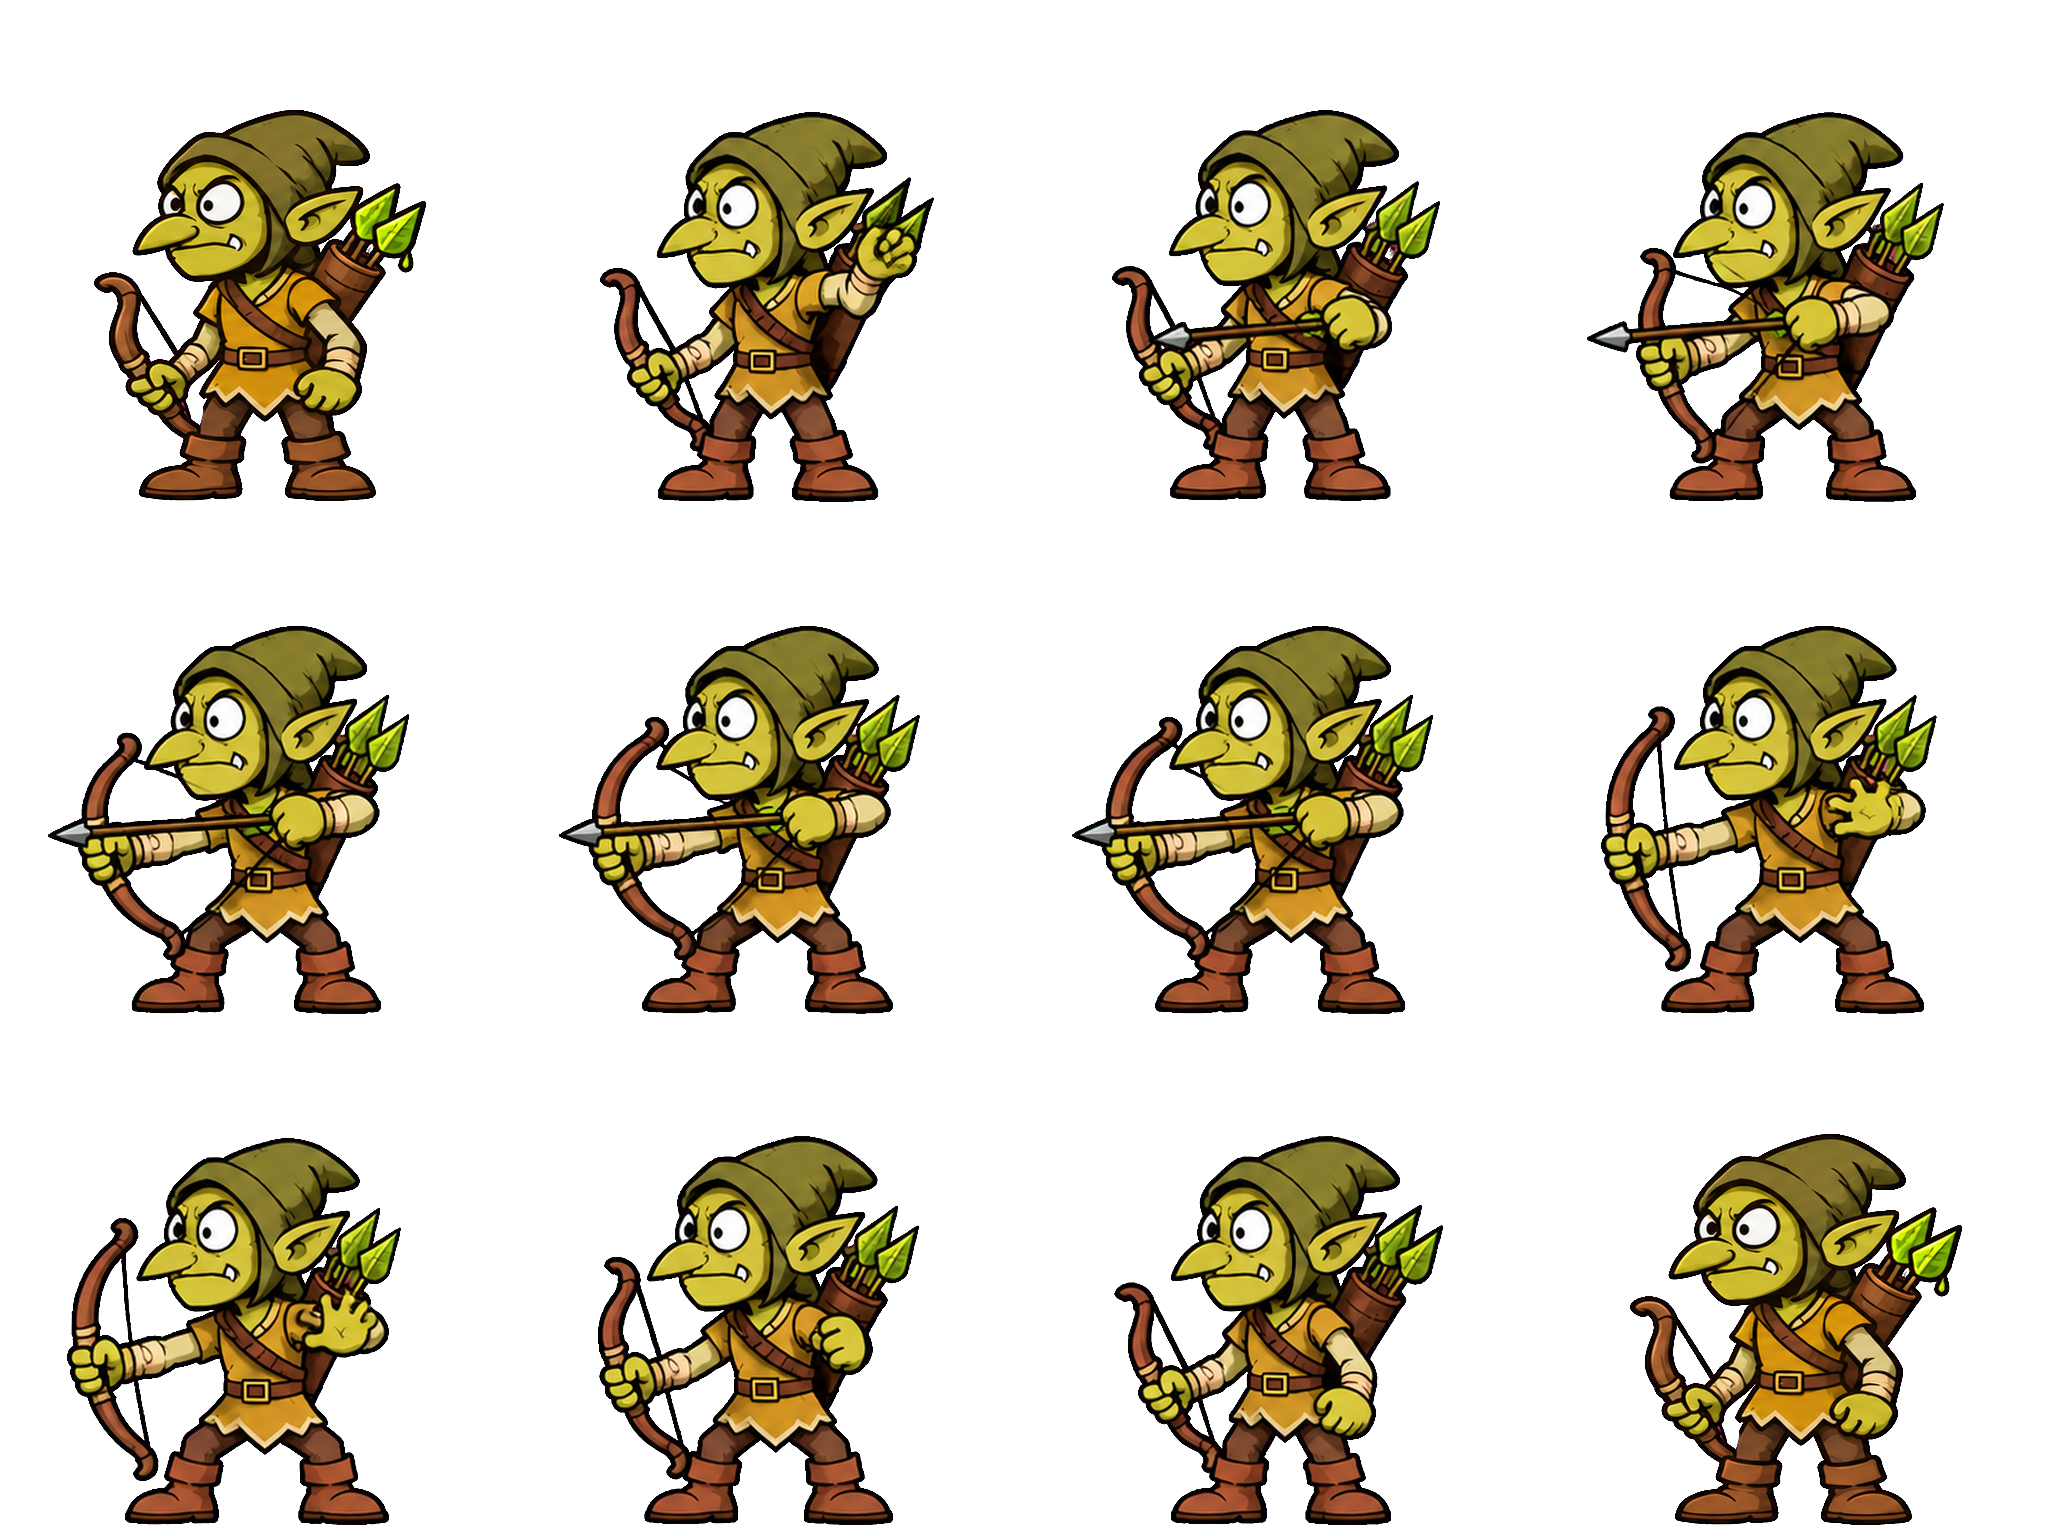
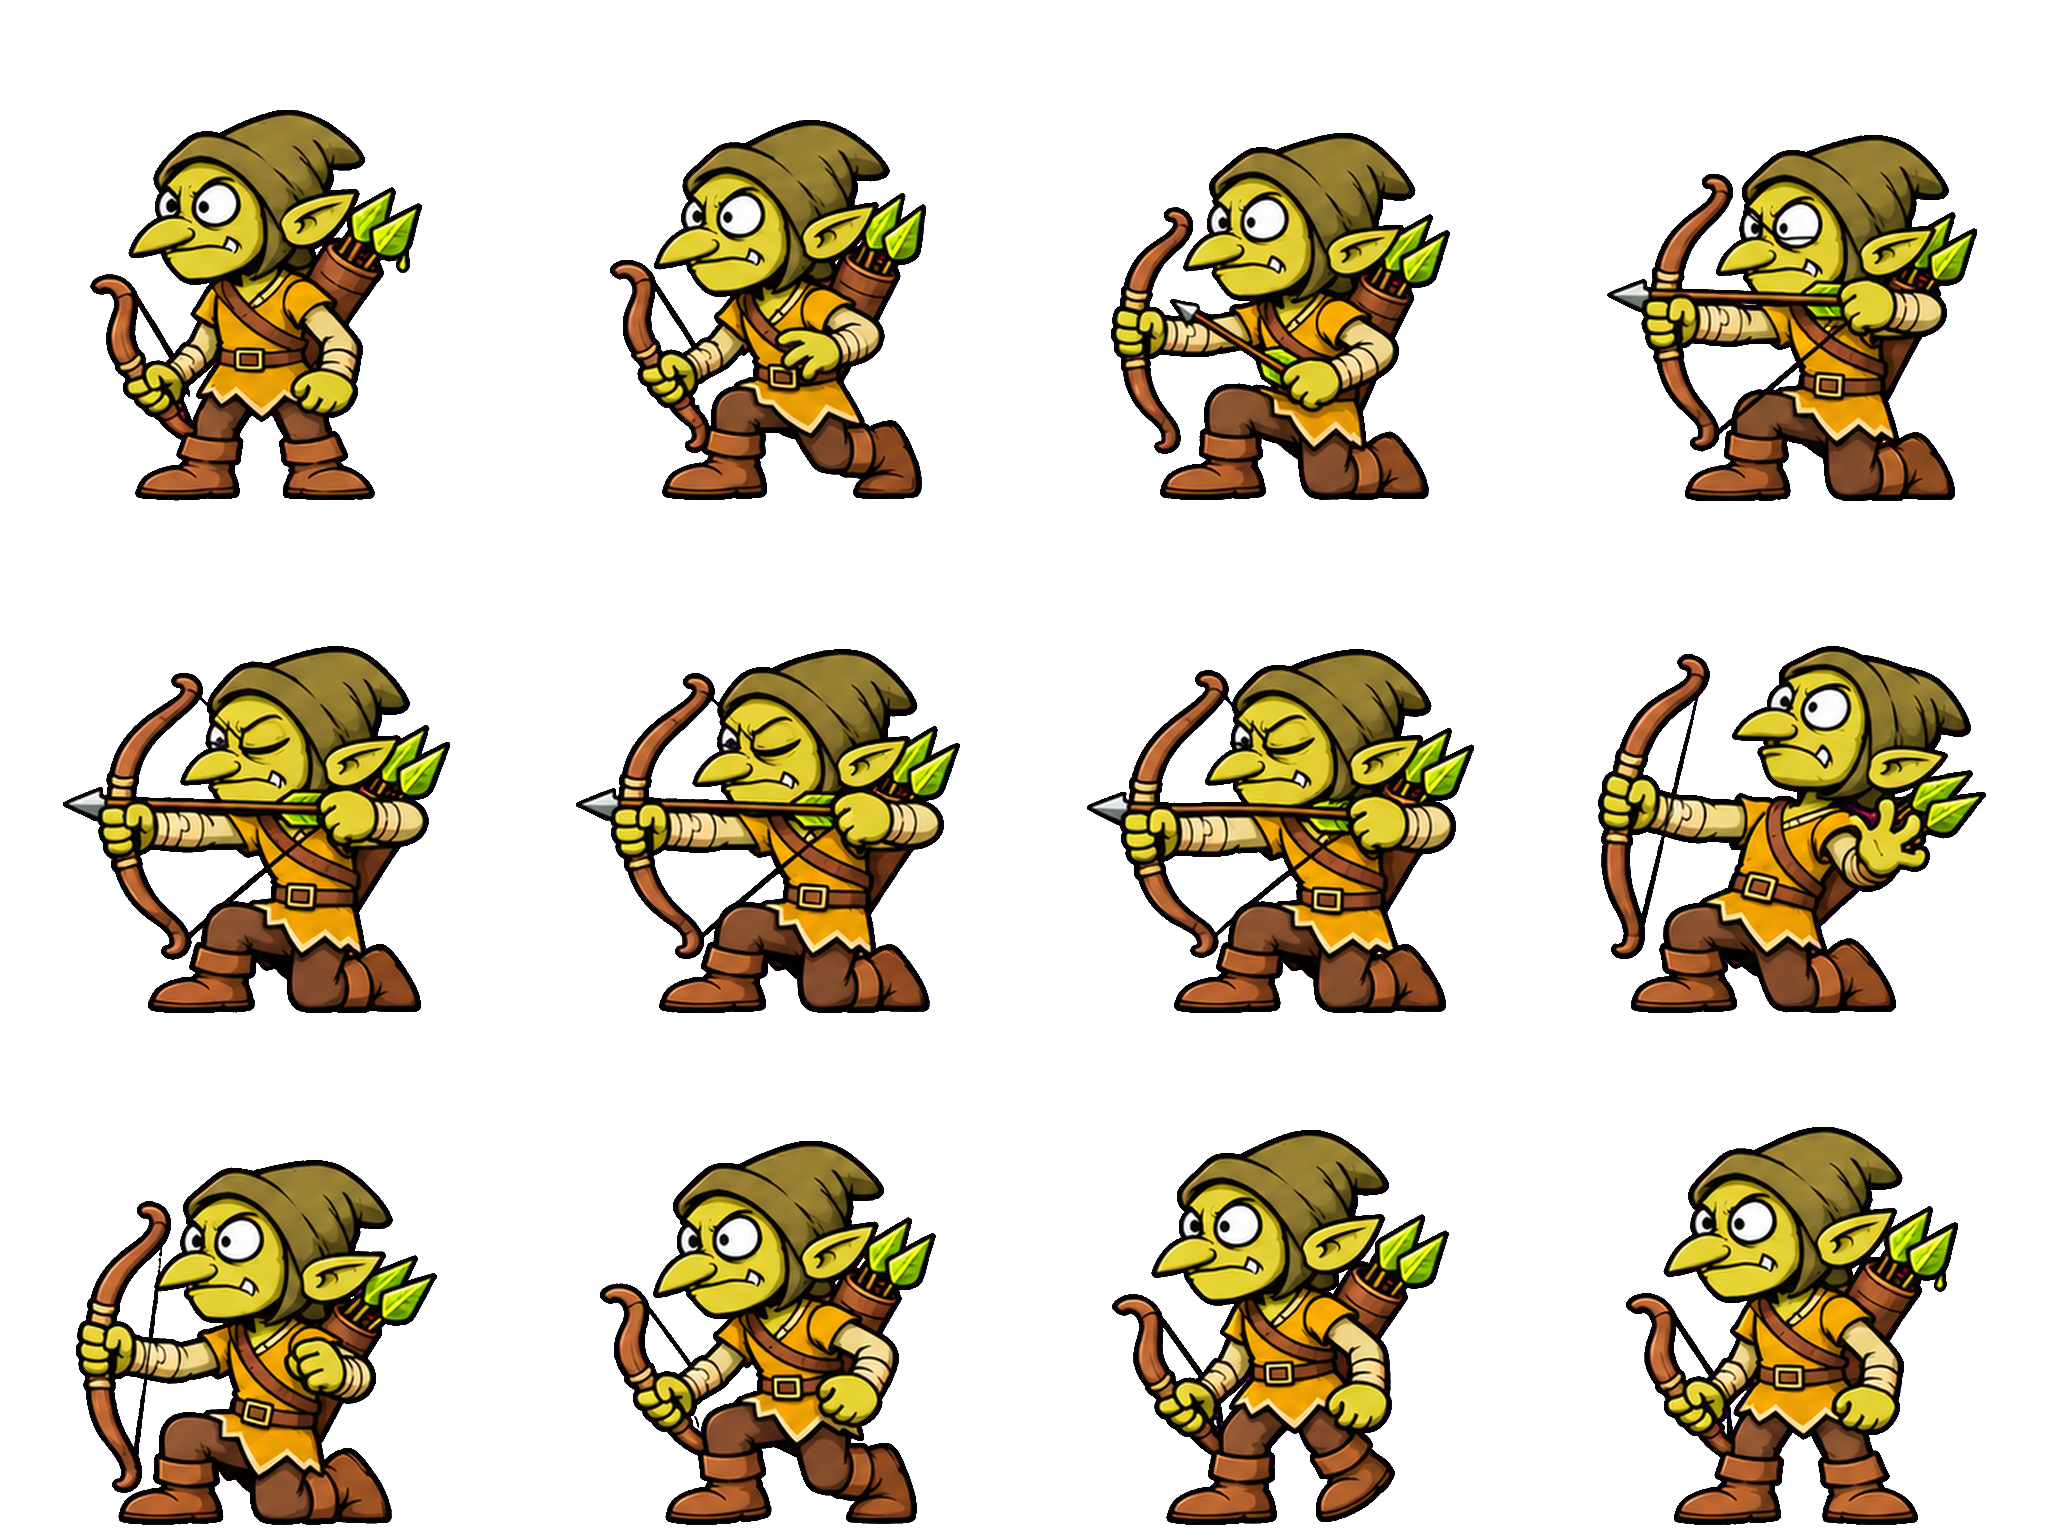
art: distinguish goblin archer kneeling power shot

diff --git a/docs/ideas/sprites/monsters2/assemble.py b/docs/ideas/sprites/monsters2/assemble.py
@@ -1,0 +1,47 @@
+"""Lay out generated RGB poses; only key_out.py creates final alpha."""
+import argparse, json, subprocess
+from pathlib import Path
+import numpy as np
+from PIL import Image
+from scipy import ndimage
+
+p=argparse.ArgumentParser()
+p.add_argument('monster'); p.add_argument('clip'); p.add_argument('source')
+p.add_argument('--frames',type=int,required=True); p.add_argument('--fps',type=int,required=True)
+p.add_argument('--source-rows',type=int,default=3); p.add_argument('--offset',type=int,default=0)
+a=p.parse_args()
+root=Path('docs/ideas/sprites/monsters2'); out=root/a.monster; out.mkdir(exist_ok=True)
+ref=root/'ref'/f'{a.monster}_idle_old.png'
+im=Image.open(a.source).convert('RGB'); ar=np.array(im)
+def mask(rgb):
+    d=rgb.astype(int)
+    return ~((d[:,:,0]>180)&(d[:,:,2]>180)&(d[:,:,1]<100))
+poses=[]; boxes=[]
+for i in range(a.offset,a.offset+a.frames):
+    x=i%4; y=i//4
+    f=im.crop((round(x*im.width/4),round(y*im.height/a.source_rows),round((x+1)*im.width/4),round((y+1)*im.height/a.source_rows)))
+    m=mask(np.array(f)); lab,n=ndimage.label(m)
+    sizes=np.bincount(lab.ravel()); valid=np.flatnonzero(sizes>=20); valid=valid[valid!=0]
+    m=np.isin(lab,valid); yy,xx=np.where(m)
+    box=(int(xx.min()),int(yy.min()),int(xx.max()+1),int(yy.max()+1)); boxes.append(box); poses.append(f.crop(box))
+rr=np.array(Image.open(ref).convert('RGBA'))[:512,:512,3]>=128
+yy=np.where(rr)[0]; height=int(yy.max()-yy.min()+1)
+scale=height/poses[0].height
+# Uniform scale within a clip: preserve actual crouches, stretches and falls.
+sheet=Image.new('RGB',(2048,512*((a.frames+3)//4)),(255,0,255))
+for i,f in enumerate(poses):
+    w,h=round(f.width*scale),round(f.height*scale)
+    if w>500 or h>494: raise RuntimeError(f'pose {i} needs room: {w}x{h}; regenerate')
+    f=f.resize((w,h),Image.Resampling.LANCZOS)
+    # Normalize only flat background, leaving drawn pixels intact.
+    rgb=np.array(f); bg=~mask(rgb); rgb[bg]=(255,0,255); f=Image.fromarray(rgb)
+    sheet.paste(f,((i%4)*512+256-w//2,(i//4)*512+501-h))
+raw=root/'raw'/f'{a.monster}_{a.clip}_key.png'; sheet.save(raw)
+target=Path('assets/characters')/a.monster/'anim'/f'fresh_{a.clip}.png'
+subprocess.run(['python3','tools/sprites/key_out.py',str(raw),str(target),'--key','ff00ff'],check=True)
+cmd=['python3','tools/sprites/check_sheet.py',str(target),'--frames',str(a.frames),'--fps',str(a.fps),'--key','ff00ff','--ref',str(ref),'--out',str(out)]
+if a.clip=='defeat': cmd+=['--airborne']
+r=subprocess.run(cmd,capture_output=True,text=True); print(r.stdout)
+(out/f'{a.clip}_check.log').write_text(r.stdout+r.stderr)
+(out/f'{a.clip}_layout.json').write_text(json.dumps({'source':a.source,'boxes':boxes,'scale':scale,'reference_height':height},indent=2))
+raise SystemExit(r.returncode)

diff --git a/docs/ideas/sprites/monsters2/review.py b/docs/ideas/sprites/monsters2/review.py
@@ -1,0 +1,16 @@
+from pathlib import Path
+import json
+from PIL import Image,ImageDraw
+root=Path('docs/ideas/sprites/monsters2')
+lines=['# Quái đợt 2 — kết quả kiểm', '', 'Nhánh `art/monsters-2` từ `e68e8554e5164e486d15e968523817557492f550`. Chỉ sửa ảnh và hồ sơ trong phạm vi cho phép. RGB được sinh từ ảnh tham chiếu; assemble.py chỉ cắt/sắp lưới với hệ số cố định trong mỗi clip, key_out.py tạo alpha. Không thay anim.json.', '', '| Quái | Sheet | Kiểm | Vòng kiểm | Cao 0 / mẫu | Chân đầu/cuối (y,x) |', '|---|---|---|---:|---|---|']
+for report in sorted(root.glob('*/*_report.json')):
+ r=json.loads(report.read_text()); monster=report.parent.name; clip=report.stem.removeprefix('fresh_').removesuffix('_report')
+ sheet=Image.open(r['sheet']).convert('RGBA'); frames=[]
+ for i in range(r['frames']):
+  f=sheet.crop((i%4*512,i//4*512,i%4*512+512,i//4*512+512)); bg=Image.new('RGBA',(512,512),(30,34,43,255)); bg.alpha_composite(f); frames.append(bg.resize((256,256)))
+ frames[0].convert('RGB').save(report.parent/f'{clip}_dark.gif',save_all=True,append_images=[f.convert('RGB') for f in frames[1:]],duration=round(1000/(12 if clip in ('idle','defeat','victory') else 24)),loop=0)
+ contact=Image.new('RGB',(1024,256*((len(frames)+3)//4)),(30,34,43))
+ for i,f in enumerate(frames): contact.paste(f,(i%4*256,i//4*256))
+ contact.save(report.parent/f'{clip}_dark.png')
+ lines.append(f"| {monster} | {clip} | {'ĐẠT' if r['pass'] else 'TRƯỢT'} | 1 | {r['checks'].get('size',{}).get('detail','')} | {r['per_frame'][0]['feet']} / {r['per_frame'][-1]['feet']} |")
+(root/'rounds.md').write_text('\n'.join(lines)+'\n')

diff --git a/docs/ideas/sprites/monsters2/rounds.md b/docs/ideas/sprites/monsters2/rounds.md
@@ -1,0 +1,7 @@
+# Quái đợt 2 — kết quả kiểm
+
+Nhánh `art/monsters-2` từ `e68e8554e5164e486d15e968523817557492f550`. Chỉ sửa ảnh và hồ sơ trong phạm vi cho phép. RGB được sinh từ ảnh tham chiếu; assemble.py chỉ cắt/sắp lưới với hệ số cố định trong mỗi clip, key_out.py tạo alpha. Không thay anim.json.
+
+| Quái | Sheet | Kiểm | Vòng kiểm | Cao 0 / mẫu | Chân đầu/cuối (y,x) |
+|---|---|---|---:|---|---|
+| goblin_archer | special | ĐẠT | 1 | frame 0 body 391 px tall, reference 391 | [499.0, 254.5] / [500.0, 259.5] |
